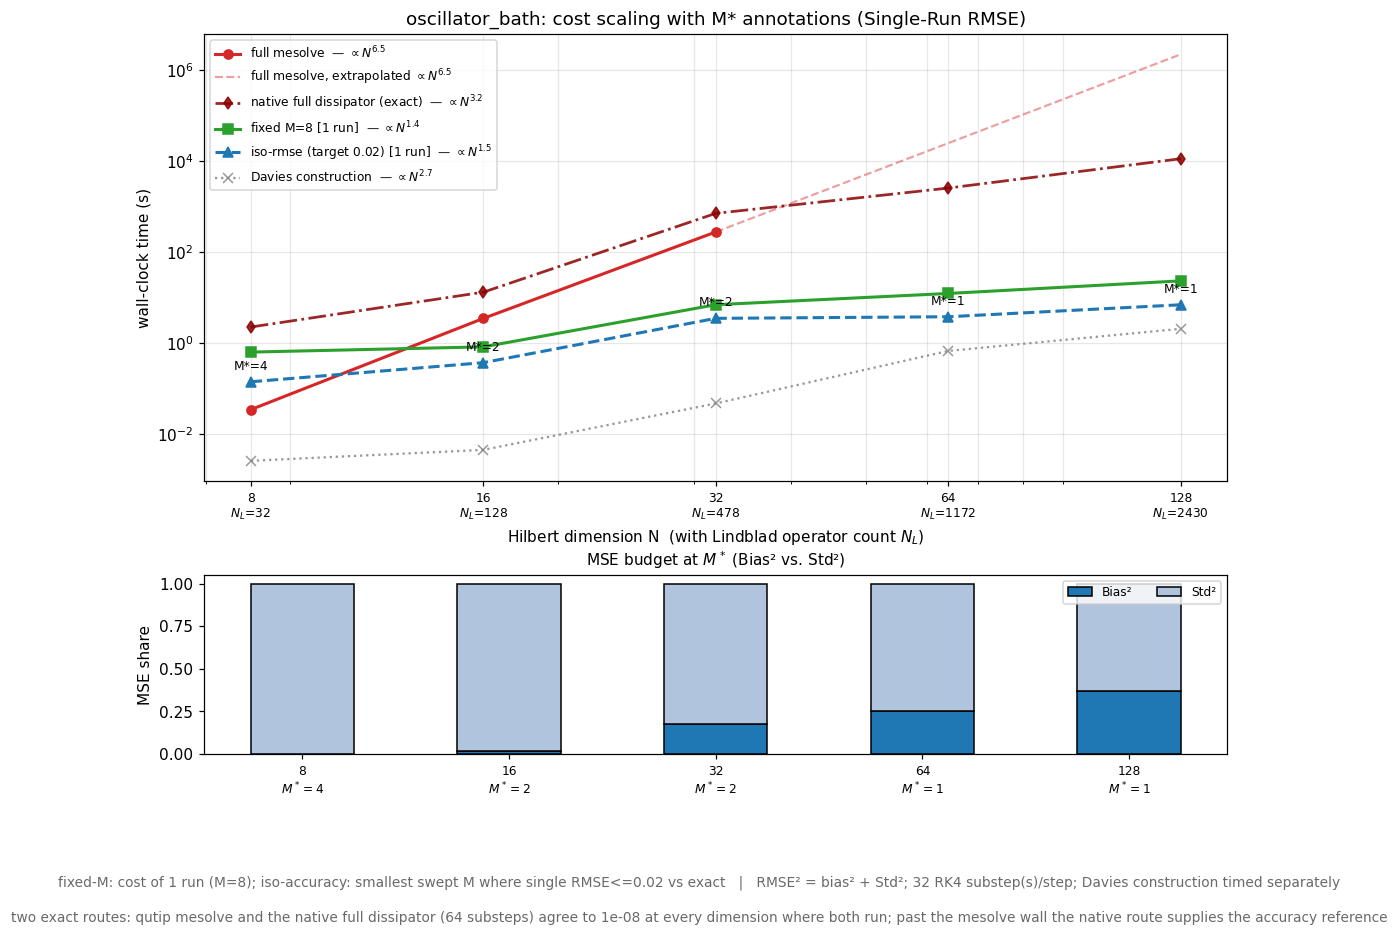
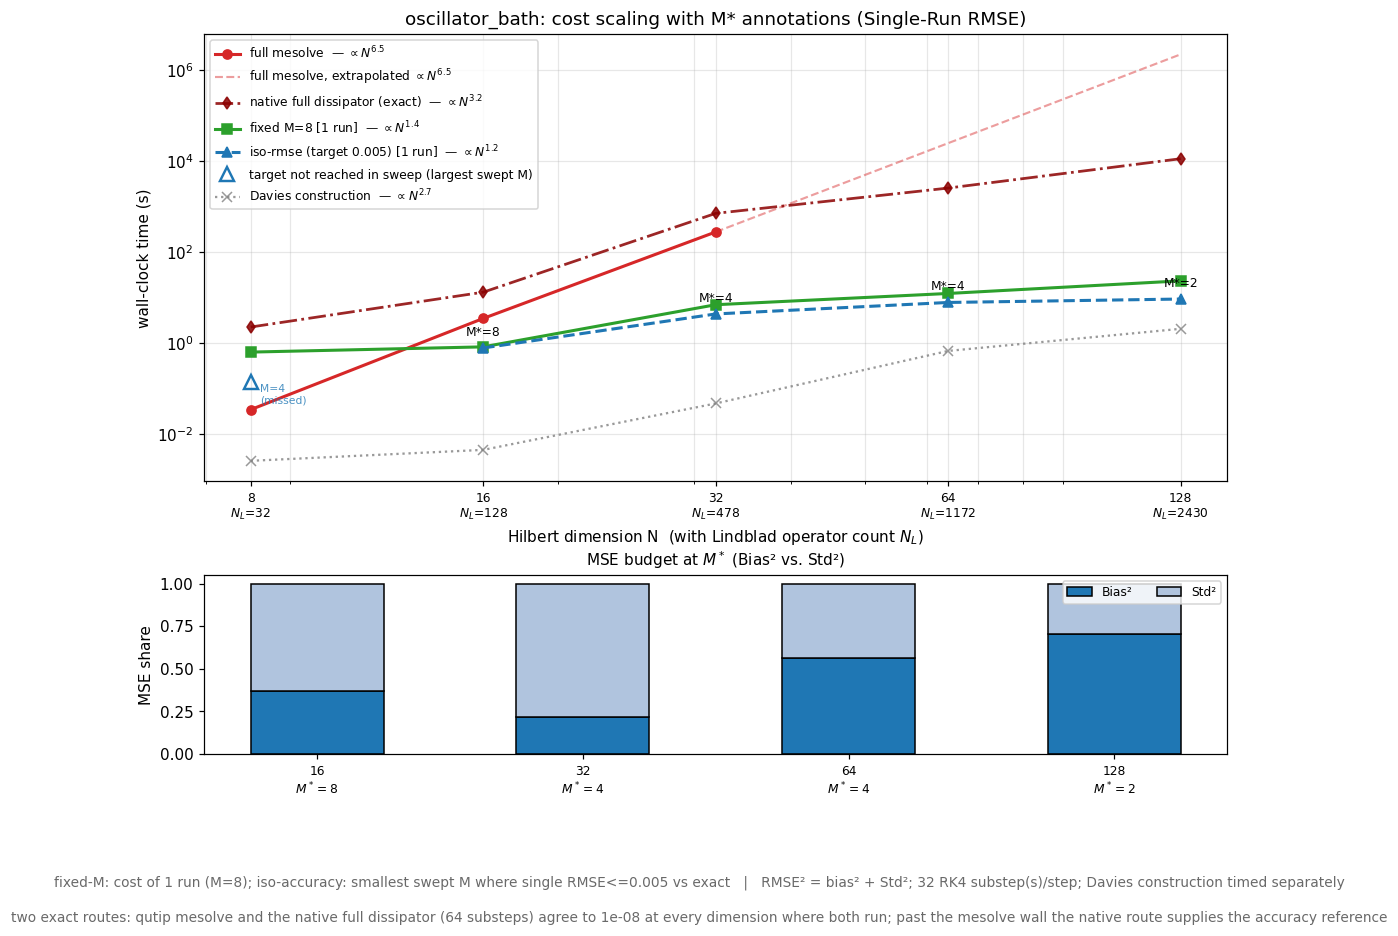
R2: per-system iso target (oscillator 0.005); refresh oscillator prose to dim-128 run; frame SLB scaling claim on chain N^2.0, oscillator as exact-wall visual

diff --git a/benchmarks/plot_cost_scaling.py b/benchmarks/plot_cost_scaling.py
@@ -17,7 +17,13 @@ import numpy as np
 from common import add_settings_footer, as_array, load_data
 
 # --- CONFIGURATION ---
+# Iso-accuracy target per system. The spin chain's M* ladder climbs with
+# size at 0.02, so that target is discriminating there. The oscillator
+# needs FEWER bundles as it grows (M*=1 clears 0.02 by dim 64), so a
+# tighter 0.005 target keeps the iso curve meaningful -- every dimension's
+# committed sweep already contains an M that reaches it.
 TARGET_VAL = 0.02
+TARGET_BY_SYSTEM = {"spin_chain": 0.02, "oscillator_bath": 0.005}
 
 # Which estimate's error defines M*?
 #   "ensemble" : error of the N_ACC-run AVERAGE  -> sqrt(bias^2 + SEM^2).
@@ -324,7 +330,8 @@ def main():
     names = ["spin_chain", "oscillator_bath"] if args.system == "all" else [args.system]
     for name in names:
         doc = load_data(f"cost_scaling_{name}.json")
-        figure(name, doc, TARGET_VAL, ESTIMATE_TYPE, ERROR_TYPE)
+        target = TARGET_BY_SYSTEM.get(name, TARGET_VAL)
+        figure(name, doc, target, ESTIMATE_TYPE, ERROR_TYPE)
 
 if __name__ == "__main__":
     main()

diff --git a/benchmarks/BENCHMARKS.md b/benchmarks/BENCHMARKS.md
@@ -536,13 +536,27 @@ past it the exact solver is impractical.
 
 **The cost curves (top).** The exact full-dissipator `mesolve` evolves the
 density matrix with all $N_L$ collapse operators; its fitted slope is the
-steepest on the plot ($N^{4.9}$ on the chain, $N^{6.4}$ on the oscillator), and
+steepest on the plot ($N^{4.9}$ on the chain, $N^{6.5}$ on the oscillator), and
 past dim 32 it cannot run here at all — its superoperator construction exhausts
 even 32 GB. SLB at a *fixed* bundle size ($M=8$) only ever propagates $M$
-operators, so one solve is cheap ($N^{2.0}$);
-the SLB and construction curves need no exact reference, so they extend well
-past the wall, far enough for the fitted slope to reach the true scaling regime
-(small sizes are overhead-dominated and read misleadingly flat).
+operators, so one solve is cheap; the SLB and construction curves need no exact
+reference, so they extend well past the wall — on the oscillator all the way to
+dim 128, a $16\times$ span in dimension.
+
+One caveat on the SLB slopes, stated plainly because a fitted exponent invites
+it: **the fixed-$M$ and iso curves are clean power laws on the chain but not on
+the oscillator.** On the chain the fixed-$M$ cost fits $N^{2.0}$ over dim
+4–256 with monotone per-step ratios, close to the $O(N^3)$-per-solve floor once
+overhead is amortized — a quotable scaling law. On the oscillator the same
+curve fits $N^{1.4}$, but the per-doubling cost ratios are *not* monotone (a
+large jump at dim 8→32, then a much smaller one at 32→128 as the dense linear
+algebra reaches its efficient BLAS regime), so that number is a least-squares
+summary of a curved trend, not a scaling exponent, and is **not quoted as
+one**. The scaling *claim* of this work therefore rests on the chain's
+$N^{2.0}$; the oscillator panel is included as the decisive visual of the exact
+solver's wall — `mesolve` at $N^{6.5}$ and the native route at $N^{3.2}$ both
+climbing into hours per solve while SLB stays near-flat — rather than for a
+fitted SLB exponent.
 
 **A second exact route, as a control.** The dash-dot curve is the same Lindblad
 equation propagated by the package's own fixed-step RK4 with *all* $N_L$
@@ -553,30 +567,36 @@ point where `mesolve` can no longer provide one.** Wherever both routes run they
 agree to $10^{-10}$–$10^{-8}$ (stated in the figure footer, recorded per
 dimension in the data), and where the native route is used alone it is re-run at
 half its substeps and rejected if halving moves the answer appreciably. That it
-also scales better than `mesolve` ($N^{3.3}$ / $N^{3.8}$) is worth noting but is
+also scales better than `mesolve` ($N^{3.3}$ / $N^{3.2}$) is worth noting but is
 not a claim of this work: `mesolve` remains the neutral, widely-used standard
 against which the cost argument is made. The
-oscillator's curve ends earlier than the chain's for a physical reason: its
-anharmonic ladder's frequencies grow like $n^2$, and past dim 64 the
-fixed-step RK4 at the disclosed substep count is no longer stable. The
-benchmark ends the curve there and records it (`stiff_dim` in the data)
-rather than silently raising substeps at the last point — a fixed-step cost
-curve is only slope-comparable at uniform substeps. The oscillator's
-*accuracy* sweep ends one octave earlier still, for a subtler reason worth
-stating: bundling concentrates the dissipative weight of all $N_L$ operators
-into $M$ bundles, so the realized SLB generator is **stiffer than the
-physical one**, increasingly so at small $M$. Just below the hard stability
-cliff this produces samples that grow exponentially without ever becoming
-non-finite — numerically meaningless yet invisible to a finiteness check.
-The sweep detects this soft divergence by magnitude against the reference
-scale, records it (`diverged` rows in the data), and ends the accuracy curve
-honestly at the last stable size. The *reference* is held to the same
-standard: at every dimension where it is produced by the native route, it is
-recomputed at half the substeps, and if halving changes the answer at all
-appreciably (tolerance $10^{-4}$) the step size is marginal there — the
-reference is then **rejected** and that dimension carries no accuracy data,
-rather than a number nobody can certify. On the oscillator at dim 64 this
-check fires, which is precisely why its accuracy curve stops where it does. Two costs that
+oscillator is the stiffer system: its anharmonic ladder's frequencies grow
+like $n^2$, so the fixed-step RK4 needs more substeps to stay stable than the
+chain does. Because a fixed-step cost curve is only slope-comparable at
+*uniform* substeps, the whole oscillator sweep is run at a single elevated
+count (32 substeps, recorded in the metadata and the footer) chosen for
+stability at the largest size reached; at the smaller sizes this over-resolves
+the dynamics, so those points are a mild upper bound on SLB's true cost — a
+conservative bias, never a flattering one. At that setting every curve reaches
+dim 128, a $16\times$ dimensional span. The curve ends there because at dim 256
+even 32 substeps is unstable and the honest fix is an implicit solver, not more
+RK4 steps (see the outlook). This same "stiffer than the physical system"
+effect is why bundling itself needs those substeps: concentrating the
+dissipative weight of all $N_L$ operators into $M$ bundles makes the realized
+SLB generator **stiffer than the physical one**, increasingly so at small $M$.
+Just below the hard stability cliff this produces samples that grow
+exponentially while remaining finite — numerically meaningless yet invisible to
+a plain finiteness check — which the solver's magnitude-and-trace guard now
+catches against the physical scale and records (`slb_unstable_at_substeps` in
+the data). The *reference* is held to the same standard: where it is produced
+by the native route it is re-integrated at a different substep count and
+rejected if the answer moves appreciably (tolerance $10^{-4}$). The cheap check
+halves the substeps, but near the stability edge the halved run itself
+diverges — which says nothing about the reference — so the benchmark then falls
+back to the standard *upward* convergence test against a **finer** run at
+double the substeps, recording which direction was used. At dim 128 this upward
+fallback certifies the 32-substep reference against a 64-substep run to
+$4\times10^{-8}$. Two costs that
 must not be blurred are shown separately: the dotted curve is the one-time
 **Davies construction** of the $N_L$ operators (an eigendecomposition plus $N_L$
 operator assemblies) — cheap in absolute terms here, but scaling with its own
@@ -629,9 +649,14 @@ This is what keeps the iso-accuracy slope near $N^{2.6}$ rather than $N^4$, so t
 holding accuracy costs about one extra power of $N$. But it still sits far below
 the exact solver, so SLB's advantage survives the honest accounting. It is
 computable only up to the reference wall, since tuning $M^\ast$ needs the exact
-answer. (On the oscillator the target is met with $M^\ast=1$ at every size — a
-single bundle already suffices — so there the fixed-$M$ and iso-accuracy costs
-coincide.)
+answer. (The target is applied per system, since the two have very different
+bias scales: $0.02$ on the chain, where it produces the climbing $M^\ast$
+ladder above, and a tighter $0.005$ on the oscillator, whose bias is small
+enough that the looser target was met with a single bundle at most sizes and so
+measured nothing. At $0.005$ the oscillator ladder is $4/4/4/4/2$ across dim
+8–128 — nearly flat, consistent with a system whose bundling bias barely grows
+with size, and the reason its iso and fixed-$M$ curves sit close together
+rather than the iso curve rising above.)
 
 **What this figure does and doesn't show.** It shows SLB's speedup over the
 *exact* solver — the comparison the method is built to win. It leaves `mcsolve`
